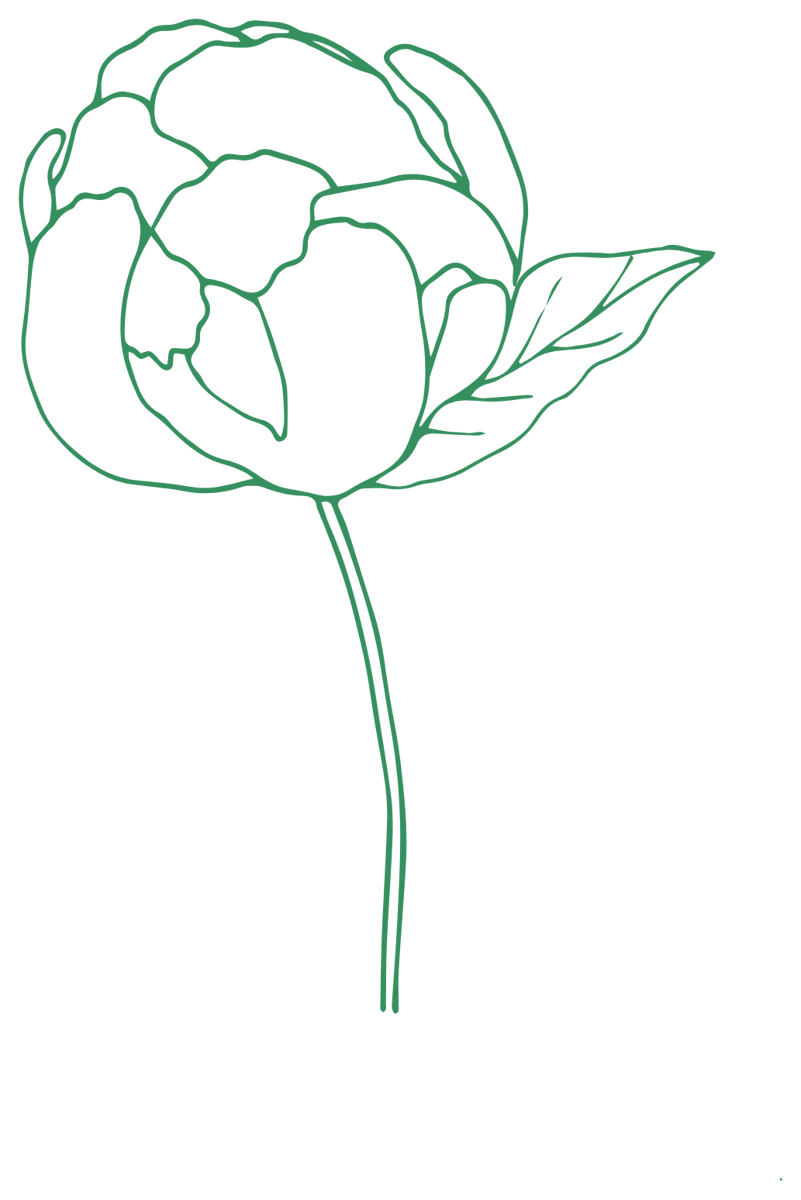
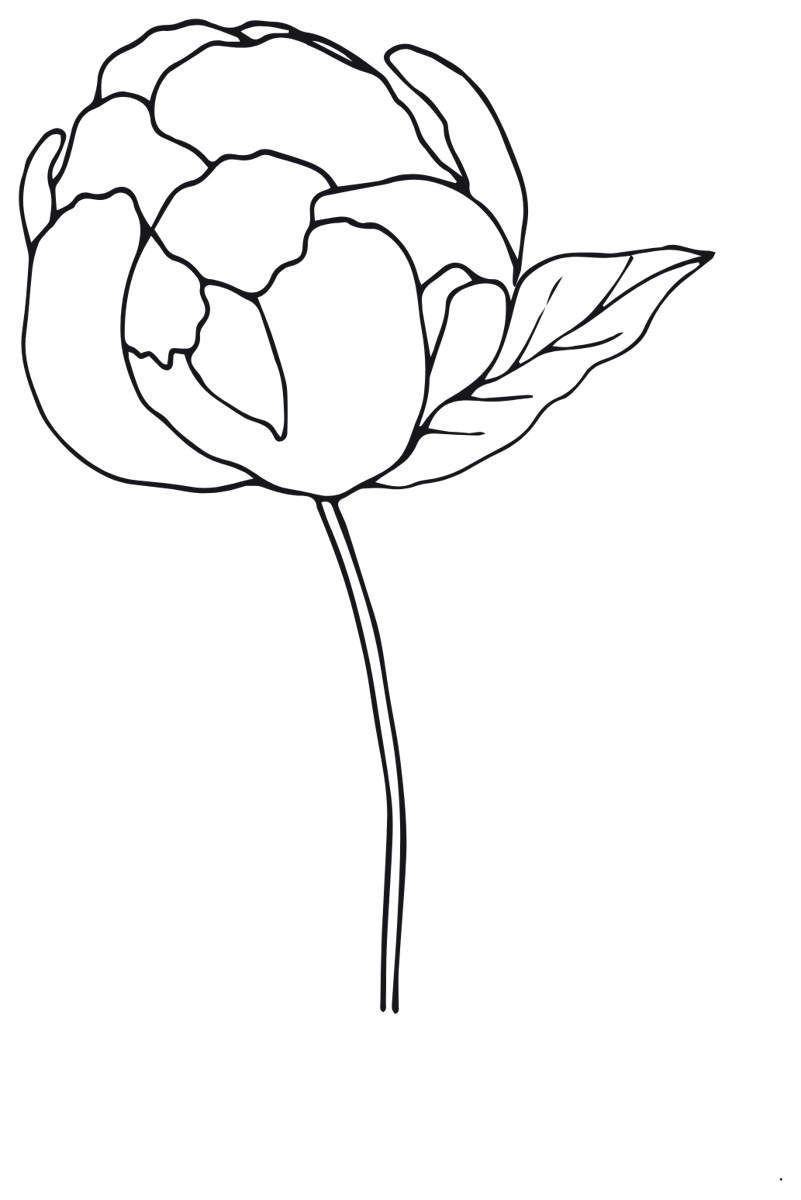
Make hero flower black and remove float animation

diff --git a/index.html b/index.html
@@ -118,8 +118,7 @@
   .hero p.lede{font-size:1.2rem;color:var(--ink-soft);max-width:46ch;margin-bottom:34px;text-wrap:balance}
   .hero-cta{display:flex;gap:14px;flex-wrap:wrap;align-items:center}
   .hero-note{font-size:.9rem;color:var(--ink-soft);margin-top:20px}
-  .illus-stage{display:flex;align-items:center;justify-content:flex-start;animation:float 7s ease-in-out infinite}
-  @keyframes float{0%,100%{transform:translateY(0)}50%{transform:translateY(-9px)}}
+  .illus-stage{display:flex;align-items:center;justify-content:flex-start}
 
   /* ---------- sections ---------- */
   section{padding:90px 0}
